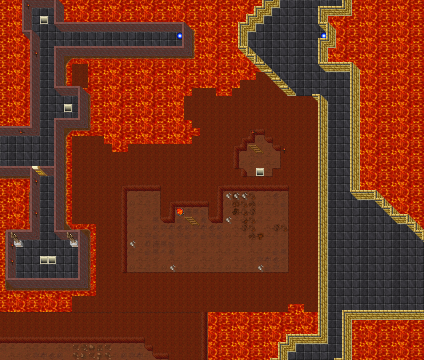
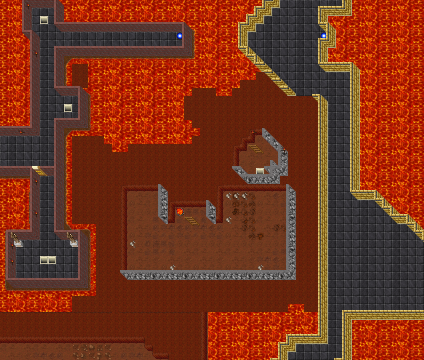
Mapa z8: muro de roca en el este y el sur de la sala de los troles y el pozo de Bambú
La pared de tierra 356-367 solo dibuja cara al norte y al oeste; al este y al sur quedaba una línea finita
del mismo marrón que la roca y desde el pasillo (181,102,8) parecía que faltaban murallas. Muro de roca
natural 903/904/907 en esos lados (48 casillas, encima de la pared de tierra, sin cambiar lo caminable).

diff --git a/scripts/map/lava-shore-troll-room.py b/scripts/map/lava-shore-troll-room.py
@@ -6,7 +6,8 @@ casilla apoyadas directo sobre el estanque de lava que rodean los pasillos de lo
 norte y87, este x180): desde el pasillo (181,102) se veían como rectángulos flotando a 3 casillas. Este
 script pasa a roca `101` la lava a 3 casillas de las salas, una costa irregular hasta 5 y las tiras finas de
 lava que quedan contra un pasillo: las salas quedan dentro de un macizo de roca y quedan pozos de lava de
-borde natural al norte y al sur.
+borde natural al norte y al sur. Además pone muro de roca natural (903/904/907) en los lados este y sur de
+las salas: la pared de tierra 356-367 solo tiene cara al norte y al oeste.
 
 Solo cambia casillas de lava (no se caminan: no cambia por dónde se anda ni los spawns). Las toma con
 `claims` de mapkit: el manifiesto `generated-lava-shore-troll-room.json` guarda la lava original de cada
@@ -32,6 +33,9 @@ AREA = (149, 88, 179, 118)          # el estanque de lava entre los pasillos (oe
 ROOMS = (153, 93, 178, 115)         # la sala de los troles y el pozo de Bambú: lo único que no es lava acá
 LAVA = {598, 599, 600, 601}
 ROCK = 101
+# Muro de roca natural (stone wall 903-913) en los lados este y sur de las salas: la pared de tierra 356-367 solo
+# dibuja cara al norte y al oeste; al este y al sur deja una línea finita que contra la roca 101 no se ve.
+WALL_V, WALL_H, WALL_SE = 903, 904, 907       # vertical (piso al oeste), horizontal (piso al norte), L (esquina SE)
 SEED = 76
 MANIFEST = K.WORLD / "generated-lava-shore-troll-room.json"
 
@@ -58,6 +62,19 @@ def plan(tiles: dict) -> tuple[dict, dict]:
         land -= {c for c in land if sum(n in land or n in solid for n in neighbors8(c)) <= 2}
     cells = {(*c, Z): [ROCK] for c in land}
     claims = {(*c, Z): list(tiles[(*c, Z)]) for c in land}
+    # muro este/sur: casillas que no son piso con piso al oeste, al norte o (esquina) al noroeste
+    otb = K.Otb()
+    floor = {c for c in K.box_cells(ROOMS) if tiles.get((*c, Z)) and otb.walkable(tiles[(*c, Z)][:1])}
+    for c in K.grow(floor, 1) - floor:
+        x, y = c
+        w, n, nw = (x - 1, y) in floor, (x, y - 1) in floor, (x - 1, y - 1) in floor
+        piece = WALL_SE if (w and n) or (nw and not w and not n) else WALL_V if w else WALL_H if n else None
+        p = (x, y, Z)
+        if piece is None or not tiles.get(p):
+            continue
+        base = cells.get(p, list(tiles[p]))
+        cells[p] = base[:1] + [piece] + base[1:]       # el muro va primero: antorchas y demás quedan encima
+        claims[p] = list(tiles[p])
     return cells, claims
 
 
@@ -79,7 +96,8 @@ def main() -> int:
         a.cells_out.write_text(json.dumps({",".join(map(str, p)): ids for p, ids in cells.items()}))
     report = {}
     n = K.write_cells(cells, MANIFEST, [598], "lava-shore-troll-room", report, a.dry_run, claims=claims)
-    print(f"orilla: {len(cells)} casillas de lava -> roca {ROCK}; cambian {n}" + (" (dry-run)" if a.dry_run else ""))
+    walls = sum(1 for ids in cells.values() if WALL_V in ids or WALL_H in ids or WALL_SE in ids)
+    print(f"orilla: {len(cells) - walls} casillas de lava -> roca {ROCK}, {walls} con muro este/sur; cambian {n}" + (" (dry-run)" if a.dry_run else ""))
     return 0
 
 

diff --git a/docs/items-and-map/MAPAS.md b/docs/items-and-map/MAPAS.md
@@ -728,6 +728,7 @@ Se agrega una fila por cada error nuevo, con fecha. Es la memoria de la guía: a
 | Generador que convierte lava en roca y además resta la lava de su zona cavable: la segunda pasada cava otra forma (19 nov 2026) | No restar de la zona lo que el mismo generador cambia. Probar dos pasadas y comparar **casilla por casilla** (el `.otbm` puede cambiar de orden sin cambiar casillas) |
 | Techos flotantes: al borrar casas (bambú del Bamboo Camp, una de tejas en 71-79,217-224) quedaron 369 casillas de techo en z6 sin casa debajo (19 nov 2026) | Al sacar una casa, sacar también su techo. `scripts/map/remove-floating-roofs.py` busca grupos de techo sin pared, puerta, ventana, arco ni columna en la misma casilla ni abajo, y los borra con `--apply` |
 | Cuevas de Bambú v1: salas rectangulares en una caja chica; desde el piso se veía el vacío negro y la lava (19 nov 2026) | Cueva con `carve_cave` + `ribbon` y relleno de roca en la ventana (±9, ±7) de cada pisable, también fuera de la caja. Si la lava de alrededor es de otro hunt, no se toca: el pozo queda como islote de roca. **Corregido el 26 nov 2026:** el islote y la sala de los troles se veían como cajas flotando desde el pasillo de los behemoths (`181,102,8`); la lava a la vista que no se camina sí se puede pasar a roca, dejando un pozo de borde natural (`lava-shore-troll-room.py`, con `claims` para devolverla) |
+| Salas de cueva con pared de tierra `356–367` rodeadas de roca `101`: al este y al sur la pared es solo una línea finita del mismo marrón y "faltan murallas" (sala de los troles y pozo de Bambú, `181,102,8`, 27 nov 2026) | El tileset 7.6 solo dibuja cara al norte y al oeste. Si se ve desde afuera (un pasillo), poner muro de roca natural en este/sur: `903` vertical, `904` horizontal, `907` L SE (`905` poste). Ver `lava-shore-troll-room.py` |
 | Dungeon de la city: vacío negro al costado, rocas peladas sin borde, salones cuadrados vacíos y fogata encima de la escalera de mano (nov 2026) | Ver [Cuevas](#cuevas) y [MAPEAR_DUNGEON_CITY.md](MAPEAR_DUNGEON_CITY.md#errores-que-ya-pasaron-arreglados-16-nov-2026) |
 | Dark Cathedral: piedra aleatoria en mitad del pasillo H2 (`145,328,8`) dejó el ala oeste de la cripta (274 casillas, con la bajada B) colgando de UNA casilla (18 nov 2026) | Los escombros bloqueantes se validan al colocar (patrón `decorate_cave`): nunca en mitad de un paso (vecinos pisables en ambos ejes) ni donde corten el único acceso |
 | Spot del Dragón Negro: islas con un lado sin orilla, pasto cortado recto contra el agua (18 nov 2026) | Al elegir la pieza de costa, contar como agua también la de **afuera** de la caja que se escribe (leerla del mapa real), y validar que todo pasto pegado al agua tenga su pieza. Ver [MAPEAR_SPOT_DRAGON.md](MAPEAR_SPOT_DRAGON.md) |

diff --git a/docs/items-and-map/MAPEAR_CUEVAS_BAMBU.md b/docs/items-and-map/MAPEAR_CUEVAS_BAMBU.md
@@ -55,6 +55,13 @@ roca `101` la lava a 3 casillas de las salas, una costa irregular hasta 5 y las 
 contra un pasillo: 423 casillas. Las salas quedan dentro de un macizo de roca, el pasillo este va cavado en
 roca de ese lado y queda un pozo de lava de borde natural al norte.
 
+Muro este/sur (27 nov 2026): la pared de tierra `356–367` solo tiene cara al norte y al oeste; al este y al sur
+deja una línea finita que contra la roca `101` (mismo marrón) no se ve, y desde el pasillo parecía que a las
+salas les faltaban murallas. El mismo script pone muro de roca natural en esos lados (48 casillas, encima
+de la pared de tierra, sin sacar antorchas): `903` vertical (piso al oeste), `904` horizontal (piso al norte),
+`907` L (esquina SE). Con los cuatro lados de roca el pozo irregular quedaba lleno de picos: solo este y sur.
+No cambia ninguna casilla caminable.
+
 ![z8: el pozo y la sala de los troles dentro de la roca](img/cuevas-bambu/z8-orilla.png)
 
 Solo toca lava (no se camina: no cambia recorridos ni spawns). Toma las casillas con `claims` de mapkit: el
